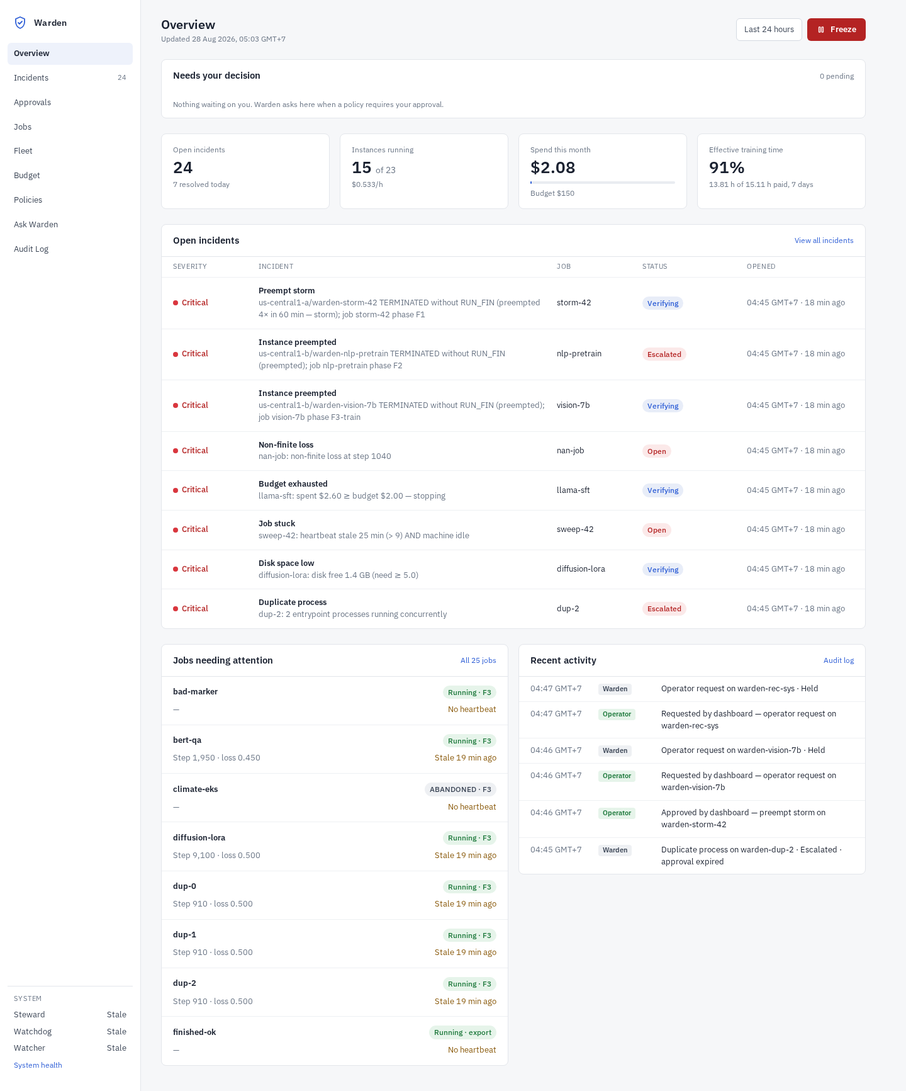
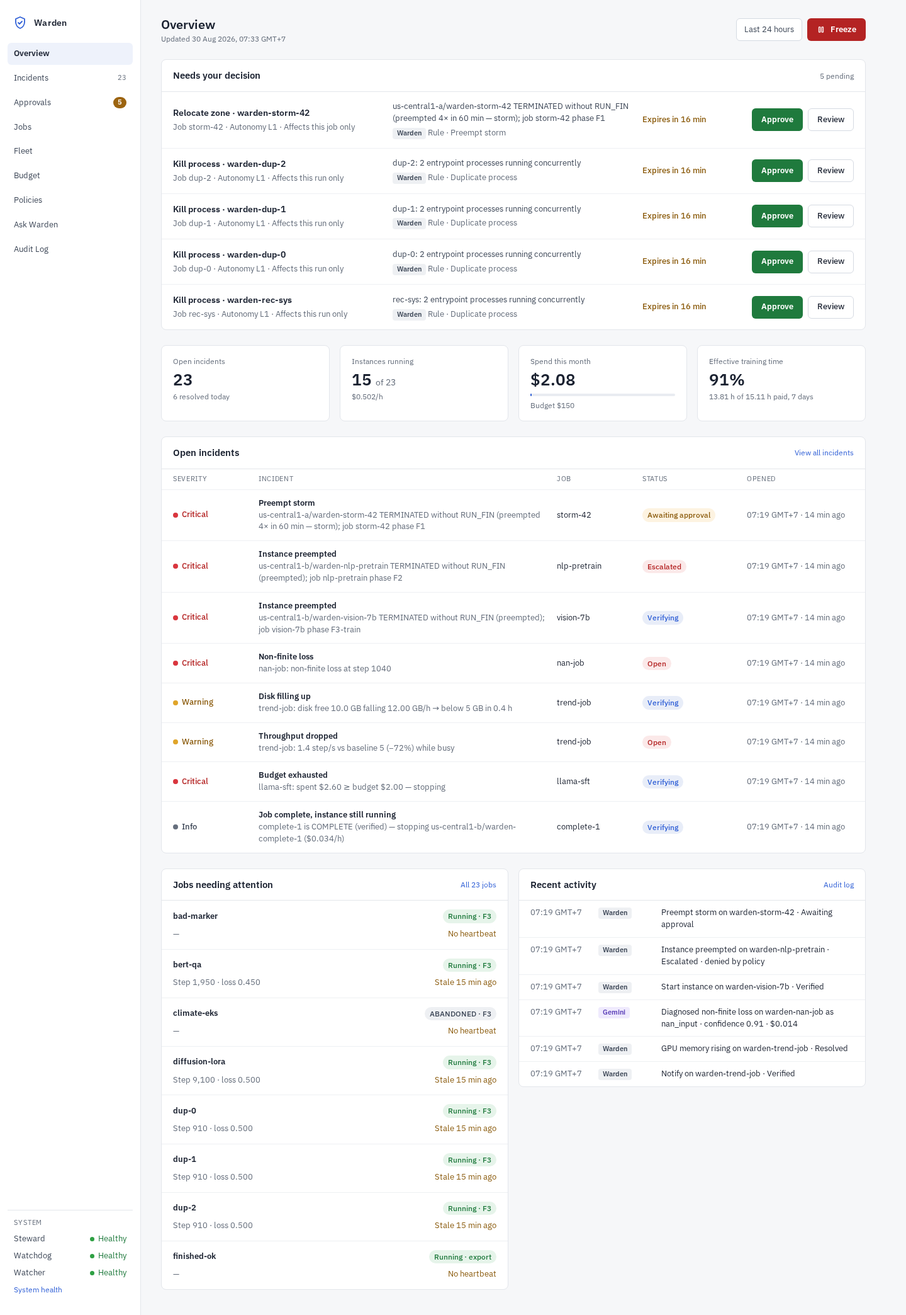
UI: pixel lint across every page, and the fleet becomes a table
chaos/ui_lint.py walks all 16 surfaces at both viewports and measures, per element:
text clipped by its own box, anything crossing the viewport edge, type below 11 px,
WCAG AA contrast against the real background, phone touch targets, overlapping
controls and controls with no accessible name. It found 278; all are now closed and
the run is clean.

What it caught that screenshots did not:
- --muted (#6b7686) passed over a white card at 4.60 and failed over the page canvas
  at 4.30 — 161 pieces of text below AA. Darkened to #626b79 (5.03 / 5.39).
- the navigation badge was white on amber at 3.64; --warn-line darkened to #9c6410.
- chart axis labels and the budget x-axis sat at 10 px.
- job links were 19 px tall inside 44 px rows, so most of the row was dead on a phone.
  A stretched ::after makes the row itself the target, layout unchanged.
- the "why" field on the propose form had a placeholder but no accessible name.
Two of its rules were wrong and were fixed rather than worked around: an input wrapped
in a <label> does have a name, and a link inline in a sentence is exempt from the
target-size rule (WCAG 2.5.8).

From reading the pages against mature incident consoles:
- System Health printed `memory` as a bare storage key and dumped a Python dict at the
  operator ({'approval': 0, 'findings': 20, ...}). Components are named, tick counters
  are label-value pairs, and an unmapped source is humanised rather than shown raw.
[…]

diff --git a/warden/ui2/static/warden.css b/warden/ui2/static/warden.css
@@ -1,10 +1,10 @@
 /* Warden design system — the only stylesheet. Tokens from docs/mockup-v2/Components.dc.html. */
 :root {
   --canvas: #f6f7f9; --surface: #ffffff; --border: #e3e6eb; --line: #eef0f3; --control: #d5dae2;
-  --text: #1a2130; --text-2: #3d4757; --muted: #6b7686; --dim: #9aa3b1;
+  --text: #1a2130; --text-2: #3d4757; --muted: #626b79; --dim: #666f7d;   /* AA over both surfaces: 5.03 / 4.74 on the canvas */
   --accent: #2f5fd6; --accent-2: #1f47ab; --accent-bg: #eef2fb;
   --ok: #2ea043; --ok-text: #1f7a3d; --ok-bg: #e6f4ea;
-  --warn: #e0a52a; --warn-text: #8a5a0b; --warn-bg: #fdf3e1; --warn-line: #b7791f;
+  --warn: #e0a52a; --warn-text: #8a5a0b; --warn-bg: #fdf3e1; --warn-line: #9c6410;   /* white on this = 4.95, AA at 11 px */
   --crit: #d9363e; --crit-text: #b42323; --crit-bg: #fbe9e9;
   --gemini: #5b3fb8; --gemini-bg: #efeafd; --frozen-bg: #e8edf8;
 }
@@ -51,6 +51,10 @@ a.plain { color: var(--text); font-weight: 600; } a.plain:hover { color: var(--a
 .card { display: flex; flex-direction: column; background: var(--surface); border: 1px solid var(--border); border-radius: 8px; }
 .card.decision { border-color: var(--warn-line); position: sticky; top: 24px; }
 .card-head { display: flex; align-items: center; justify-content: space-between; padding: 14px 18px; border-bottom: 1px solid var(--border); }
+.card-head { position: relative; }
+.card-head a.plain::after { content: ""; position: absolute; inset: 0; }
+.card-head a.plain { position: relative; z-index: 1; }
+.card-head .pill, .card-head .btn, .card-head button, .card-head a:not(.plain) { position: relative; z-index: 2; }
 .card-head .h { font-size: 15px; font-weight: 600; }
 .card-body { padding: 18px; display: flex; flex-direction: column; gap: 12px; }
 .section-row { padding: 14px 18px; border-bottom: 1px solid var(--line); } .section-row:last-child { border-bottom: none; }
@@ -65,7 +69,11 @@ a.plain { color: var(--text); font-weight: 600; } a.plain:hover { color: var(--a
 
 /* tables */
 .table { display: flex; flex-direction: column; }
-.tr { display: grid; gap: 16px; align-items: center; padding: 12px 18px; border-bottom: 1px solid var(--line); } .tr:last-child { border-bottom: none; }
+.tr { display: grid; gap: 16px; align-items: center; padding: 12px 18px; border-bottom: 1px solid var(--line); position: relative; }
+/* The row, not the 19 px line of text, is the hit area — WCAG 2.5.8 target size without changing the layout. */
+.tr a.plain::after { content: ""; position: absolute; inset: 0; }
+.tr a.plain { position: relative; z-index: 1; }
+.tr .btn, .tr button, .tr .pill, .tr time { position: relative; z-index: 2; } .tr:last-child { border-bottom: none; }
 .th { display: grid; gap: 16px; padding: 8px 18px; font-size: 11px; color: var(--muted); text-transform: uppercase; letter-spacing: 0.06em; border-bottom: 1px solid var(--line); }
 .cols-incidents { grid-template-columns: 120px minmax(0, 1fr) 120px 150px 170px; }
 .cols-activity { grid-template-columns: 96px 88px minmax(0, 1fr); gap: 12px; align-items: start; padding: 10px 18px; }
@@ -76,6 +84,7 @@ a.plain { color: var(--text); font-weight: 600; } a.plain:hover { color: var(--a
 .cols-stale { grid-template-columns: minmax(0, 1fr) 140px 200px 130px; }
 .cols-timeline { grid-template-columns: 150px 220px minmax(0, 1fr) 100px; }
 .cols-override { grid-template-columns: 160px 200px 80px 160px minmax(0, 1fr); }
+.cols-fleet { grid-template-columns: minmax(0, 1.4fr) 110px minmax(0, 1fr) 110px 90px 150px 170px; }
 .title-row { display: flex; align-items: center; gap: 10px; flex-wrap: wrap; }
 .ask-form { display: grid; grid-template-columns: minmax(0, 1fr) 220px 140px; gap: 10px; align-items: end; }
 .cell-clip { overflow: hidden; text-overflow: ellipsis; white-space: nowrap; }
@@ -88,7 +97,7 @@ select { width: 100%; }
 :focus-visible { outline: 2px solid var(--accent); outline-offset: 2px; border-radius: 4px; }
 
 .empty-line { padding: 12px 18px; }
-.chart-x { display: flex; justify-content: space-between; font-size: 10px; color: var(--muted); }
+.chart-x { display: flex; justify-content: space-between; font-size: 11px; color: var(--muted); }
 .card.quiet .card-head { border-bottom: none; }
 
 /* semantics */
@@ -149,7 +158,10 @@ select { width: 100%; }
   .table.stack .cols-audit > [data-l='Phase'] { display: block; }
   .table.stack .cols-audit > [data-l='Time']::before, .table.stack .cols-audit > [data-l='Actor']::before,
   .table.stack .cols-audit > [data-l='Phase']::before { content: none; }
-  .cols-audit { min-width: 760px; } .cols-policy { min-width: 520px; } .cols-ettr { min-width: 560px; } .cols-stale { min-width: 560px; } .cols-timeline { min-width: 600px; } .cols-override { min-width: 640px; }
+  .cols-audit { min-width: 760px; } .cols-policy { min-width: 520px; } .cols-ettr { min-width: 560px; } .cols-stale { min-width: 560px; } .cols-timeline { min-width: 600px; } .cols-override { min-width: 640px; } .cols-fleet { min-width: 0; }
+  /* 23 machines × 7 labelled lines is a scroll marathon: on a phone keep what tells you a machine needs
+     attention — name, status, job, heartbeat and price — and leave type and last-seen to the desktop. */
+  .table.stack .cols-fleet > [data-l='Type'], .table.stack .cols-fleet > [data-l='Last seen'] { display: none; }
   .ask-form { grid-template-columns: 1fr; }
   /* On a phone a 110 px label column leaves ~200 px for the value, which broke log excerpts mid-token.
      The label goes above the value instead, matching the stacked tables. */

diff --git a/warden/ui2/templates/fleet.html b/warden/ui2/templates/fleet.html
@@ -1,7 +1,16 @@
 {% extends "base.html" %}
 {% block content %}
-<header class="page-head"><div><div class="title">Fleet</div><div class="s12 muted num">{{ rows|length }} managed instances</div></div><div class="actions">{% include "_freeze.html" %}</div></header>
-{% for r in rows %}<section class="card"><div class="card-head"><div class="h">{{ r.i.name }}</div><div class="actions">{% if r.unsafe %}<span class="pill pill-crit">Unsafe configuration</span>{% endif %}<span class="pill pill-{{ r.status_cls }}">{{ r.status_text }}</span></div></div>
-  <div class="card-body"><div class="props"><div class="k">Zone</div><div class="v">{{ r.i.zone }}</div><div class="k">Machine type</div><div class="v">{{ r.i.machine_type or '—' }}</div><div class="k">Provisioning</div><div class="v">{{ 'Spot' if r.i.spot else 'On-demand' }}</div><div class="k">Price</div><div class="v num">{{ r.price }}/h</div><div class="k">Job</div><div class="v">{{ r.i.job_id or '—' }}</div><div class="k">On termination</div><div class="v">{{ r.i.termination_action or '—' }}</div><div class="k">Heartbeat</div><div class="v {{ r.hb_cls }}">{{ r.hb_text }}{% if r.hb_iso %} · <time data-utc="{{ r.hb_iso }}" data-rel="1"></time>{% endif %}</div>{% if r.h %}<div class="k">Host</div><div class="v num">CPU {{ '%.0f' % (r.h.cpu_pct or 0) }} % · disk {{ '%.1f' % (r.h.disk_avail_gb or 0) }} GB free</div>{% endif %}<div class="k">Last seen</div><div class="v num"><time data-utc="{{ r.seen_iso }}" data-fmt="long" data-rel="1"></time></div></div></div></section>
-{% else %}<section class="card"><div class="empty"><b>No managed instances</b></div></section>{% endfor %}
+<header class="page-head"><div><div class="title">Fleet</div><div class="s12 muted num">{{ rows|length }} managed instances · {{ running }} running</div></div><div class="actions">{% include "_freeze.html" %}</div></header>
+<section class="card table stack scroll">
+  <div class="th cols-fleet"><div>Machine</div><div>Status</div><div>Job</div><div>Type</div><div>Price</div><div>Heartbeat</div><div>Last seen</div></div>
+  {% for r in rows %}<div class="tr cols-fleet">
+    <div class="cell-2 gap4" data-l="Machine"><div class="strong">{{ r.i.name }}</div><div class="sub num">{{ r.i.zone }} · {{ 'Spot' if r.i.spot else 'On-demand' }}{% if r.unsafe %} · <span class="crit">auto-delete disk</span>{% endif %}</div></div>
+    <div data-l="Status"><span class="pill pill-{{ r.status_cls }}">{{ r.status_text }}</span></div>
+    <div class="cell-clip" data-l="Job" title="{{ r.i.job_id or '—' }}">{{ r.i.job_id or '—' }}</div>
+    <div class="num" data-l="Type">{{ r.i.machine_type or '—' }}</div>
+    <div class="num" data-l="Price">{{ r.price }}/h</div>
+    <div class="{{ r.hb_cls }}" data-l="Heartbeat">{{ r.hb_text }}{% if r.h %}<div class="sub num">CPU {{ '%.0f' % (r.h.cpu_pct or 0) }} % · disk {{ '%.1f' % (r.h.disk_avail_gb or 0) }} GB free</div>{% endif %}</div>
+    <div class="num muted" data-l="Last seen"><time data-utc="{{ r.seen_iso }}" data-fmt="long" data-rel="1"></time></div>
+  </div>{% else %}<div class="empty"><b>No managed instances</b><span>Machines Warden creates or adopts appear here.</span></div>{% endfor %}
+</section>
 {% endblock %}

diff --git a/warden/ui2/templates/approvals.html b/warden/ui2/templates/approvals.html
@@ -4,10 +4,10 @@
 <section class="card">
   <div class="card-head"><div class="h">Needs your decision</div></div>
   {% for d in decisions %}<div class="tr cols-decision">
-    <div class="cell-2 gap4"><div class="strong s14">{{ d.action_label }} · {{ d.target_short }}</div><div class="sub">Job {{ d.job_id or '—' }} · Autonomy {{ d.autonomy }} · Affects {{ d.radius|lower }}</div></div>
+    <div class="cell-2 gap4"><div class="strong s14">{{ d.action_label }} · {{ d.target_short }}</div><div class="sub">Job {{ d.job_id or '—' }} · Autonomy {{ d.autonomy }} · Affects {{ d.radius|lower }} · {{ d.cost_impact }}</div></div>
     <div class="cell-2 gap4 text-2"><div>{{ d.why }}</div>{% if d.gemini %}<div class="muted"><span class="actor actor-gemini">Gemini</span> Confidence {{ d.gemini.conf }} · Cross-check {{ 'passed' if d.gemini.passed else 'failed' }}</div>{% endif %}</div>
     <div class="num expires {{ 'crit' if d.expired else 'warn' }}">{% if d.expired %}Expired{% else %}Expires <time data-utc="{{ d.expires_iso }}" data-fmt="rel"></time>{% endif %}</div>
-    <div class="actions" style="justify-content:flex-end">{% if d.expired %}<button class="btn btn-secondary" data-act="/decisions/{{ d.decision_id }}/reevaluate?who=dashboard" data-key="{{ d.decision_id }}">Re-evaluate</button>{% else %}<button class="btn btn-approve" data-act="/decisions/{{ d.decision_id }}/approve?who=dashboard" data-key="{{ d.decision_id }}">Approve</button>{% endif %}<a class="btn btn-secondary" href="/incidents/{{ d.incident_id }}">Review</a></div>
+    <div class="actions" style="justify-content:flex-end">{% if d.expired %}<button class="btn btn-secondary" data-act="/decisions/{{ d.decision_id }}/reevaluate?who=dashboard" data-key="{{ d.decision_id }}">Re-evaluate</button>{% else %}<button class="btn btn-approve" data-act="/decisions/{{ d.decision_id }}/approve?who=dashboard" data-key="{{ d.decision_id }}">Approve</button><button class="btn btn-secondary" data-act="/decisions/{{ d.decision_id }}/deny?who=dashboard" data-key="{{ d.decision_id }}">Deny</button>{% endif %}<a class="btn btn-secondary" href="/incidents/{{ d.incident_id }}">Review</a></div>
   </div>{% else %}<div class="empty"><b>No pending decisions</b><span>Warden lists decisions here when a policy requires you.</span></div>{% endfor %}
 </section>
 {% if stale %}<section class="card table stack"><div class="card-head"><div class="h">Expired, rejected and failed</div><div class="s12 muted num">{{ stale|length }}</div></div>

diff --git a/warden/ui2/templates/audit.html b/warden/ui2/templates/audit.html
@@ -3,6 +3,6 @@
 <header class="page-head"><div><div class="title">Audit Log</div><div class="s12 muted num">{{ rows|length }} entries</div></div><div class="actions">{% include "_freeze.html" %}</div></header>
 <section class="card table stack">
   <div class="th cols-audit"><div>Time</div><div>Actor</div><div>Phase</div><div>Action</div><div>Target</div><div>Result</div></div>
-  {% for r in rows %}<div class="tr cols-audit s12 num"><div class="muted" data-l="Time"><time data-utc="{{ r.ts }}" data-fmt="clock"></time></div><div data-l="Actor"><span class="actor actor-{{ 'operator' if r.actor_label == 'Operator' else 'warden' }}">{{ r.actor_label }}</span></div><div data-l="Phase">{{ r.phase|capitalize }}</div><div data-l="Action">{{ r.action_label }}</div><div class="muted mono cell-clip" data-l="Target">{{ r.target }}</div><div class="{{ r.result_cls }} cell-clip" data-l="Result">{{ r.result }}</div></div>{% else %}<div class="empty"><b>No entries</b></div>{% endfor %}
+  {% for r in rows %}<div class="tr cols-audit s12 num"><div class="muted" data-l="Time"><time data-utc="{{ r.ts }}" data-fmt="clock"></time></div><div data-l="Actor"><span class="actor actor-{{ 'operator' if r.actor_label == 'Operator' else 'warden' }}">{{ r.actor_label }}</span></div><div data-l="Phase">{{ r.phase|capitalize }}</div><div data-l="Action">{{ r.action_label }}</div><div class="muted mono cell-clip" data-l="Target" title="{{ r.target }}">{{ r.target }}</div><div class="{{ r.result_cls }} cell-clip" data-l="Result" title="{{ r.result }}">{{ r.result }}</div></div>{% else %}<div class="empty"><b>No entries</b></div>{% endfor %}
 </section>
 {% endblock %}

diff --git a/warden/ui2/templates/health.html b/warden/ui2/templates/health.html
@@ -3,7 +3,7 @@
 <header class="page-head"><div><div class="title">System Health</div><div class="s12 muted num">{{ health|length }} components</div></div><div class="actions">{% include "_freeze.html" %}</div></header>
 <section class="card">
   {% for h in health %}<div class="section-row"><div style="display:flex;align-items:center;justify-content:space-between;margin-bottom:8px"><div class="strong s14">{{ h.name }}</div><span class="pill pill-{{ h.cls }}"><span class="dot dot-{{ h.cls }}"></span>{{ h.status }}</span></div>
-    <div class="props"><div class="k">Last OK</div><div class="v num"><time data-utc="{{ h.last_ok_iso }}" data-fmt="long" data-rel="1"></time></div><div class="k">Consecutive failures</div><div class="v num">{{ h.fails }}</div>{% if h.error %}<div class="k">Last error</div><div class="v mono s12">{{ h.error }}</div>{% endif %}{% if h.stats %}<div class="k">Last run</div><div class="v mono s12">{{ h.stats }}</div>{% endif %}</div></div>
+    <div class="props"><div class="k">Last OK</div><div class="v num"><time data-utc="{{ h.last_ok_iso }}" data-fmt="long" data-rel="1"></time></div><div class="k">Consecutive failures</div><div class="v num">{{ h.fails }}</div>{% if h.error %}<div class="k">Last error</div><div class="v mono s12">{{ h.error }}</div>{% endif %}{% for k, v in h.stats %}<div class="k">{{ k }}</div><div class="v num">{{ v }}</div>{% endfor %}</div></div>
   {% else %}<div class="empty"><b>No health records</b></div>{% endfor %}
 </section>
 {% endblock %}

diff --git a/warden/ui2/templates/budget.html b/warden/ui2/templates/budget.html
@@ -10,9 +10,9 @@
 <section class="card"><div class="card-head"><div class="h">Cumulative spend</div></div>
   <svg viewBox="0 0 640 140" role="img" aria-label="Cumulative spend against the budget cap" style="width:100%;height:170px;padding:8px 12px;box-sizing:border-box">
     <line x1="40" y1="110" x2="620" y2="110" stroke="#e3e6eb"></line><line x1="40" y1="30" x2="620" y2="30" stroke="#c9ced6" stroke-dasharray="4 4"></line>
-    <text x="8" y="114" fill="#6b7686" font-size="10">$0</text><text x="8" y="34" fill="#6b7686" font-size="10">{{ stats.cap }}</text>
+    <text x="8" y="114" fill="#6b7686" font-size="11">$0</text><text x="8" y="34" fill="#6b7686" font-size="11">{{ stats.cap }}</text>
     {% if chart_points %}<polyline fill="none" stroke="#2f5fd6" stroke-width="2" points="{{ chart_points }}"></polyline>{% endif %}
-    {% if labels %}<text x="40" y="130" fill="#6b7686" font-size="10">{{ labels[0] }}</text><text x="596" y="130" fill="#6b7686" font-size="10">{{ labels[-1] }}</text>{% endif %}
+    {% if labels %}<text x="40" y="130" fill="#6b7686" font-size="11">{{ labels[0] }}</text><text x="596" y="130" fill="#6b7686" font-size="11">{{ labels[-1] }}</text>{% endif %}
   </svg>
 </section>
 <section class="card table stack"><div class="card-head"><div class="h">Effective training time by job · 7 days</div></div>

diff --git a/warden/ui2/templates/incident.html b/warden/ui2/templates/incident.html
@@ -53,7 +53,7 @@
       <div class="card-head"><div class="h">{{ 'Training heartbeat' if contract else 'Host heartbeat' }} · last 60</div></div>
       <svg viewBox="0 0 640 140" role="img" aria-label="{{ chart.label }} over the last 60 heartbeats" style="width:100%;height:160px;padding:8px 12px;box-sizing:border-box">
         <line x1="40" y1="110" x2="620" y2="110" stroke="#e3e6eb"></line><line x1="40" y1="70" x2="620" y2="70" stroke="#eef0f3"></line><line x1="40" y1="30" x2="620" y2="30" stroke="#eef0f3"></line>
-        <text x="8" y="114" fill="#6b7686" font-size="10">0</text><text x="8" y="74" fill="#6b7686" font-size="10">{{ chart.mid }}</text><text x="8" y="34" fill="#6b7686" font-size="10">{{ chart.max }}</text>
+        <text x="8" y="114" fill="#6b7686" font-size="11">0</text><text x="8" y="74" fill="#6b7686" font-size="11">{{ chart.mid }}</text><text x="8" y="34" fill="#6b7686" font-size="11">{{ chart.max }}</text>
         <polyline fill="none" stroke="#2f5fd6" stroke-width="2" points="{{ chart.points }}"></polyline>
         <foreignObject x="40" y="120" width="580" height="20"><div xmlns="http://www.w3.org/1999/xhtml" class="chart-x"><time data-utc="{{ chart.t0 }}"></time><time data-utc="{{ chart.t1 }}"></time><time data-utc="{{ chart.t2 }}"></time></div></foreignObject>
       </svg>

diff --git a/warden/ui2/templates/jobs.html b/warden/ui2/templates/jobs.html
@@ -1,7 +1,7 @@
 {% extends "base.html" %}
 {% block content %}
 <header class="page-head"><div><div class="title">Jobs</div><div class="s12 muted num">{{ jobs|length }} registered</div></div><div class="actions"><a class="btn btn-primary" href="/jobs/launch">Launch job</a>{% include "_freeze.html" %}</div></header>
-{% for j in jobs %}<section class="card"><div class="card-head"><div class="h"><a href="/jobs/{{ j.job_id }}">{{ j.job_id }}</a></div><span class="pill pill-{{ j.status_cls }}">{{ j.status }}{% if j.phase %} · {{ j.phase }}{% endif %}</span></div>
+{% for j in jobs %}<section class="card"><div class="card-head"><div class="h"><a class="plain" href="/jobs/{{ j.job_id }}">{{ j.job_id }}</a></div><span class="pill pill-{{ j.status_cls }}">{{ j.status }}{% if j.phase %} · {{ j.phase }}{% endif %}</span></div>
   <div class="card-body">
     {% if j.pct is not none %}<div class="progress"><i class="{{ 'done' if j.pct >= 100 else '' }}" style="width:{{ j.pct }}%"></i></div>{% endif %}
     <div class="props"><div class="k">Progress</div><div class="v num">{{ j.line }}</div><div class="k">Heartbeat</div><div class="v {{ j.hb_cls }}">{{ j.hb_text }}{% if j.hb_iso %} · <time data-utc="{{ j.hb_iso }}" data-rel="1"></time>{% endif %}</div><div class="k">Mode</div><div class="v">{{ j.mode }}</div>

diff --git a/warden/ui2/templates/job.html b/warden/ui2/templates/job.html
@@ -32,7 +32,7 @@
       <div class="s12 muted" style="margin-bottom:8px">Goes through the same policy and approval path as Warden's own proposals.</div>
       <form data-propose="/jobs/{{ job.job_id }}/propose" data-key="{{ job.job_id }}" style="display:flex;flex-direction:column;gap:8px">
         <select name="action" style="height:36px;padding:0 10px;border:1px solid var(--control);border-radius:6px;font:inherit;background:#fff">{% for v, l in actions %}<option value="{{ v }}">{{ l }}</option>{% endfor %}</select>
-        <input name="why" maxlength="200" placeholder="Why (recorded in the audit log)" style="height:36px;padding:0 10px;border:1px solid var(--control);border-radius:6px;font:inherit">
+        <input name="why" maxlength="200" aria-label="Why this action is being requested" placeholder="Why (recorded in the audit log)" style="height:36px;padding:0 10px;border:1px solid var(--control);border-radius:6px;font:inherit">
         <button class="btn btn-primary" type="submit">Propose</button>
       </form></div></div>
   </aside>

diff --git a/chaos/ui_lint.py b/chaos/ui_lint.py
@@ -1,0 +1,168 @@
+"""Pixel-level lint of every dashboard page, desktop and phone.
+
+Screenshots catch what you happen to look at; this catches what you do not. It walks every page at both viewports and
+reports, per element: text clipped by its own box, anything crossing the viewport edge, type below the legible floor,
+touch targets too small to hit on a phone, text whose contrast against its actual background fails WCAG AA, interactive
+elements that overlap each other, and icons with no accessible name.
+
+Every finding names the element, its classes and the measured numbers, so the fix can be aimed rather than guessed.
+
+    python -m chaos.ui_lint            # → docs/video/tour/lint_report.json
+"""
+from __future__ import annotations
+
+import json
+import os
+import subprocess
+import sys
+import time
+from pathlib import Path
+
+ROOT = Path(__file__).resolve().parent.parent
+OUT = Path(os.environ.get("TOUR_OUT", ROOT / "docs/video/tour"))
+CORE_PORT, UI_PORT = "18101", "8101"
+os.environ.update({
+    "FIRESTORE_EMULATOR_HOST": "127.0.0.1:8081", "WARDEN_PROJECT": "warden-local", "WARDEN_FIRESTORE_DB": "warden-tour",
+    "WARDEN_PROVIDER": "fake", "WARDEN_DEV": "1", "WARDEN_FAKE_STATE": str(OUT / "fleet.json"),
+    "WARDEN_CORE_URL": f"http://127.0.0.1:{CORE_PORT}", "PORT": UI_PORT,
+})
+UI = f"http://127.0.0.1:{UI_PORT}"
+
+from warden.store import firestore as db  # noqa: E402
+
+LINT = r"""(vw) => {
+  const out = [];
+  const A = 'a,button,input,select,textarea,[data-act],[role=button]';
+  const desc = (el) => el.tagName.toLowerCase() + (el.className && el.className.toString ?
+      '.' + el.className.toString().trim().split(/\s+/).slice(0, 3).join('.') : '');
+  const txt = (el) => (el.textContent || '').trim().replace(/\s+/g, ' ').slice(0, 48);
+
+  // sRGB relative luminance and WCAG contrast
+  const lum = (c) => { const f = c.map(v => { v /= 255; return v <= 0.03928 ? v / 12.92 : Math.pow((v + 0.055) / 1.055, 2.4); });
+    return 0.2126 * f[0] + 0.7152 * f[1] + 0.0722 * f[2]; };
+  const parse = (s) => { const m = (s || '').match(/rgba?\(([^)]+)\)/); if (!m) return null;
+    const p = m[1].split(',').map(x => parseFloat(x)); return { rgb: [p[0], p[1], p[2]], a: p.length > 3 ? p[3] : 1 }; };
+  const bgOf = (el) => { let e = el;
+    while (e) { const c = parse(getComputedStyle(e).backgroundColor); if (c && c.a > 0.5) return c.rgb; e = e.parentElement; }
+    return [255, 255, 255]; };
+  const ratio = (a, b) => { const l1 = lum(a), l2 = lum(b); const hi = Math.max(l1, l2), lo = Math.min(l1, l2);
+    return (hi + 0.05) / (lo + 0.05); };
+
+  const seenBoxes = [];
+  document.querySelectorAll('body *').forEach(el => {
+    const r = el.getBoundingClientRect();
+    const cs = getComputedStyle(el);
+    if (cs.display === 'none' || cs.visibility === 'hidden' || r.width === 0 || r.height === 0) return;
+    const own = Array.from(el.childNodes).some(n => n.nodeType === 3 && n.textContent.trim());
+
+    // 1. anything crossing the viewport edge
+    if (r.right > vw + 1 || r.left < -1) out.push({ kind: 'viewport', el: desc(el), right: Math.round(r.right), left: Math.round(r.left), text: txt(el) });
+
+    // 2. text clipped by its own box (only where the element cannot scroll)
+    if (own && el.scrollWidth > el.clientWidth + 1 && ['hidden', 'clip'].includes(cs.overflowX) && !el.getAttribute('title'))
+      out.push({ kind: 'clipped', el: desc(el), scrollW: el.scrollWidth, clientW: el.clientWidth, text: txt(el) });
+    if (own && el.scrollHeight > el.clientHeight + 1 && ['hidden', 'clip'].includes(cs.overflowY))
+      out.push({ kind: 'clipped-y', el: desc(el), scrollH: el.scrollHeight, clientH: el.clientHeight, text: txt(el) });
+
+    // 3. type below the legible floor
+    const fs = parseFloat(cs.fontSize);
+    if (own && fs && fs < 11) out.push({ kind: 'tiny-type', el: desc(el), px: Math.round(fs * 10) / 10, text: txt(el) });
+
+    // 4. contrast of real text against its real background
+    if (own && txt(el)) {
+      const fg = parse(cs.color);
+      if (fg) {
+        const c = ratio(fg.rgb, bgOf(el));
+        const large = fs >= 24 || (fs >= 18.66 && parseInt(cs.fontWeight, 10) >= 700);
+        if (c < (large ? 3 : 4.5)) out.push({ kind: 'contrast', el: desc(el), ratio: Math.round(c * 100) / 100, px: fs, text: txt(el) });
+      }
+    }
+
+    // 5. touch targets and overlapping controls
+    if (el.matches(A)) {
+      // WCAG 2.5.8 exempts a link inline in a sentence, and a row-stretching ::after makes the row the hit area.
+      const stretched = getComputedStyle(el, '::after').position === 'absolute';
+      const parentText = el.parentElement ? (el.parentElement.textContent || '').trim() : '';
+      const inlineInSentence = el.tagName === 'A' && parentText.length > txt(el).length + 2;
+      if (vw <= 480 && (r.height < 24 || r.width < 24) && txt(el) && !stretched && !inlineInSentence)
+        out.push({ kind: 'touch-target', el: desc(el), w: Math.round(r.width), h: Math.round(r.height), text: txt(el) });
+      for (const b of seenBoxes) {
+        const ov = Math.max(0, Math.min(r.right, b.r.right) - Math.max(r.left, b.r.left)) *
+                   Math.max(0, Math.min(r.bottom, b.r.bottom) - Math.max(r.top, b.r.top));
+        if (ov > 16 && !el.contains(b.el) && !b.el.contains(el))
+          out.push({ kind: 'overlap', el: desc(el), other: desc(b.el), area: Math.round(ov) });
+      }
+      seenBoxes.push({ r, el });
+      // 6. a control with no accessible name — a wrapping <label>, a <label for>, or aria-labelledby all give one
+      const labelled = el.closest('label') || el.getAttribute('aria-labelledby') ||
+        (el.id && document.querySelector('label[for="' + CSS.escape(el.id) + '"]'));
+      if (!txt(el) && !el.getAttribute('aria-label') && !el.getAttribute('title') && !labelled)
+        out.push({ kind: 'unnamed-control', el: desc(el) });
+    }
+  });
+  return out;
+}"""
+
+
+def pages() -> list[str]:
+    inc = next((i for i in db.incidents.list(limit=400) if i.diagnosis), db.incidents.list(limit=1)[0])
+    return ["/", "/incidents", "/approvals", "/jobs", "/jobs/vision-7b", "/jobs/launch", "/fleet", "/budget",
+            "/policies", "/audit", "/system", "/ask"] + \
+           [f"/incidents/{inc.incident_id}{t}" for t in ("", "?tab=timeline", "?tab=decisions", "?tab=evidence")]
+
+
+def main() -> int:
+    env = dict(os.environ)
+    logs = open(OUT / "lint_servers.log", "w")
+    core = subprocess.Popen([sys.executable, "-m", "uvicorn", "warden.main:app", "--port", CORE_PORT, "--log-level", "warning"],
+                            env=env, stdout=logs, stderr=subprocess.STDOUT)
+    ui = subprocess.Popen([sys.executable, "-m", "warden.ui2.app"], env=env, stdout=logs, stderr=subprocess.STDOUT)
+    import httpx
+    for _ in range(90):
+        try:
+            if httpx.get(f"{UI}/health", timeout=3).status_code == 200:
+                break
+        except Exception:  # noqa: BLE001
+            pass
+        time.sleep(1)
+
+    report: dict = {}
+    counts: dict[str, int] = {}
+    try:
+        from playwright.sync_api import sync_playwright
+        with sync_playwright() as p:
+            b = p.chromium.launch()
+            for tag, vw, vh in (("desktop", 1440, 900), ("phone", 390, 844)):
+                ctx = b.new_context(viewport={"width": vw, "height": vh}, timezone_id="Asia/Jakarta")
+                pg = ctx.new_page()
+                for path in pages():
+                    pg.goto(UI + path, wait_until="load", timeout=60000)
+                    pg.wait_for_timeout(400)
+                    found = pg.evaluate(LINT, vw)
+                    if found:
+                        report[f"{tag} {path}"] = found
+                        for f in found:
+                            counts[f["kind"]] = counts.get(f["kind"], 0) + 1
+                    print(f"  {'OK ' if not found else f'{len(found):3d}'}  {tag:8s} {path}", flush=True)
+                ctx.close()
+            b.close()
+    finally:
+        core.terminate(); ui.terminate()
+        (OUT / "lint_report.json").write_text(json.dumps(report, indent=1))
+        total = sum(counts.values())
+        print(f"\n{total} findings" + (f" — {counts}" if counts else " — clean"))
+        for page, items in report.items():
+            kinds = {}
+            for i in items:
+                kinds.setdefault(i["kind"], []).append(i)
+            print(f"\n{page}")
+            for k, v in kinds.items():
+                print(f"  {k} ×{len(v)}")
+                for i in v[:4]:
+                    print(f"    {json.dumps({x: y for x, y in i.items() if x != 'kind'}, ensure_ascii=False)[:150]}")
+        print("\nreport →", OUT / "lint_report.json")
+    return 0 if not report else 1
+
+
+if __name__ == "__main__":
+    raise SystemExit(main())

diff --git a/warden/ui2/data.py b/warden/ui2/data.py
@@ -11,7 +11,12 @@ STALE_HB_S = 180
 STALE_HEALTH_S = 900
 PERIODIC_SOURCES = {"watcher", "steward", "deadman", "compute_api"}
 SOURCE_NAME = {"watcher": "Watcher", "steward": "Steward", "deadman": "Watchdog", "compute_api": "Compute Engine API", "gcs": "Cloud Storage",
-               "gemini": "Gemini", "llm_budget": "LLM budget", "llm_circuit": "Gemini circuit breaker", "discord": "Discord", "verifier": "Verifier"}
+               "gemini": "Gemini", "llm_budget": "LLM budget", "llm_circuit": "Gemini circuit breaker", "discord": "Discord", "verifier": "Verifier",
+               "memory": "Incident memory", "gold_eval": "Diagnostician evaluation", "soak": "Soak measurement"}
+# What a tick actually did, in the operator's words — the raw stats dict used to be printed at them as a Python repr.
+STAT_LABEL = {"instances": "Machines seen", "findings": "Findings", "incidents_new": "New incidents", "auto": "Acted automatically",
+              "approval": "Waiting for approval", "denied": "Denied by policy", "held": "Held", "verify": "Verifications",
+              "recovery": "Recovery steps", "llm": "Diagnoses", "errors": "Errors"}
 STATE_LABEL = {"DETECTED": "Open", "TRIAGED": "Open", "DIAGNOSING": "Open", "DIAGNOSED": "Open", "DECIDED": "Open", "EXECUTING": "Executing", "VERIFYING": "Verifying",
                "RESOLVED": "Resolved", "AWAITING_APPROVAL": "Awaiting approval", "HELD": "Held", "ESCALATED": "Escalated", "FAILED_ACTION": "Escalated", "CLOSED": "Closed", "FALSE_POSITIVE": "Closed"}
 STATE_CLS = {"Open": "crit", "Executing": "info", "Verifying": "info", "Resolved": "ok", "Awaiting approval": "warn", "Held": "grey", "Escalated": "crit", "Closed": "grey"}
@@ -125,6 +130,19 @@ def is_frozen() -> bool:
     return bool(d.exists and d.to_dict().get("frozen"))
 
 
+def stat_pairs(d) -> list[tuple[str, str]]:
+    """A tick's counters as label-value pairs; anything unmapped is still humanised, never shown as a raw key."""
+    if not isinstance(d, dict):
+        return []
+    out = []
+    for k, v in d.items():
+        if isinstance(v, (list, dict)) and not v:
+            continue
+        lab = STAT_LABEL.get(k, k.replace("_", " ").capitalize())
+        out.append((lab, ", ".join(str(x) for x in v) if isinstance(v, list) else str(v)))
+    return out
+
+
 def health_rows() -> list[dict]:
     out = []
     for d in db.client().collection("health").stream():
@@ -135,7 +153,7 @@ def health_rows() -> list[dict]:
             st, cls = ("Stale", "stale") if (a is None or a > STALE_HEALTH_S) else (("Healthy", "ok") if fails == 0 else ("Degraded", "warn"))
         else:
             st, cls = ("Healthy", "ok") if fails == 0 else ("Failing", "crit")
-        out.append({"src": r["src"], "name": SOURCE_NAME.get(r["src"], r["src"]), "status": st, "cls": cls, "last_ok_iso": last or "", "fails": fails, "error": str(r.get("last_error", ""))[:160], "stats": r.get("stats")})
+        out.append({"src": r["src"], "name": SOURCE_NAME.get(r["src"], r["src"].replace("_", " ").capitalize()), "status": st, "cls": cls, "last_ok_iso": last or "", "fails": fails, "error": str(r.get("last_error", ""))[:160], "stats": stat_pairs(r.get("stats"))})
     return sorted(out, key=lambda x: x["name"])
 
 

diff --git a/warden/ui2/app.py b/warden/ui2/app.py
@@ -124,7 +124,8 @@ def fleet(request: Request):
                      "status_cls": data.INSTANCE_STATUS.get(data._s(i.status), (None, "grey"))[1],
                      "seen_iso": data.iso(i.last_seen), "price": data.usd(i.hourly_price_usd, 3),
                      "unsafe": i.termination_action == "DELETE" or bool(i.boot_disk_auto_delete)})
-    return render(request, "fleet.html", "fleet", "Fleet", ctx, rows=rows)
+    return render(request, "fleet.html", "fleet", "Fleet", ctx, rows=rows,
+                  running=sum(1 for r in rows if r["status"] == "RUNNING"))
 
 
 @app.get("/budget", response_class=HTMLResponse)
